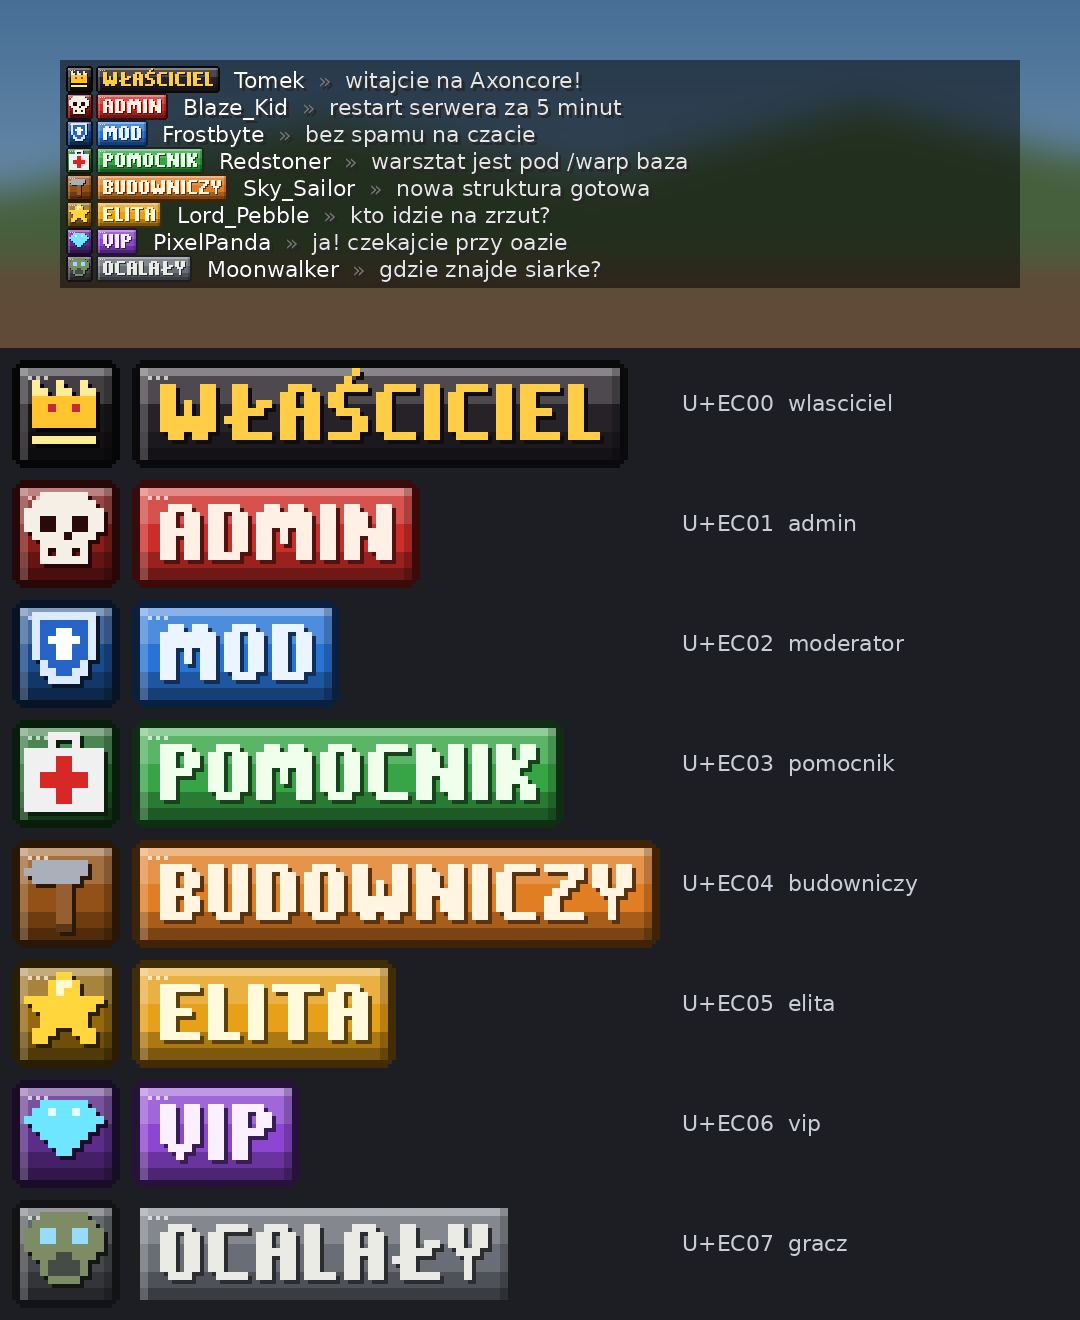
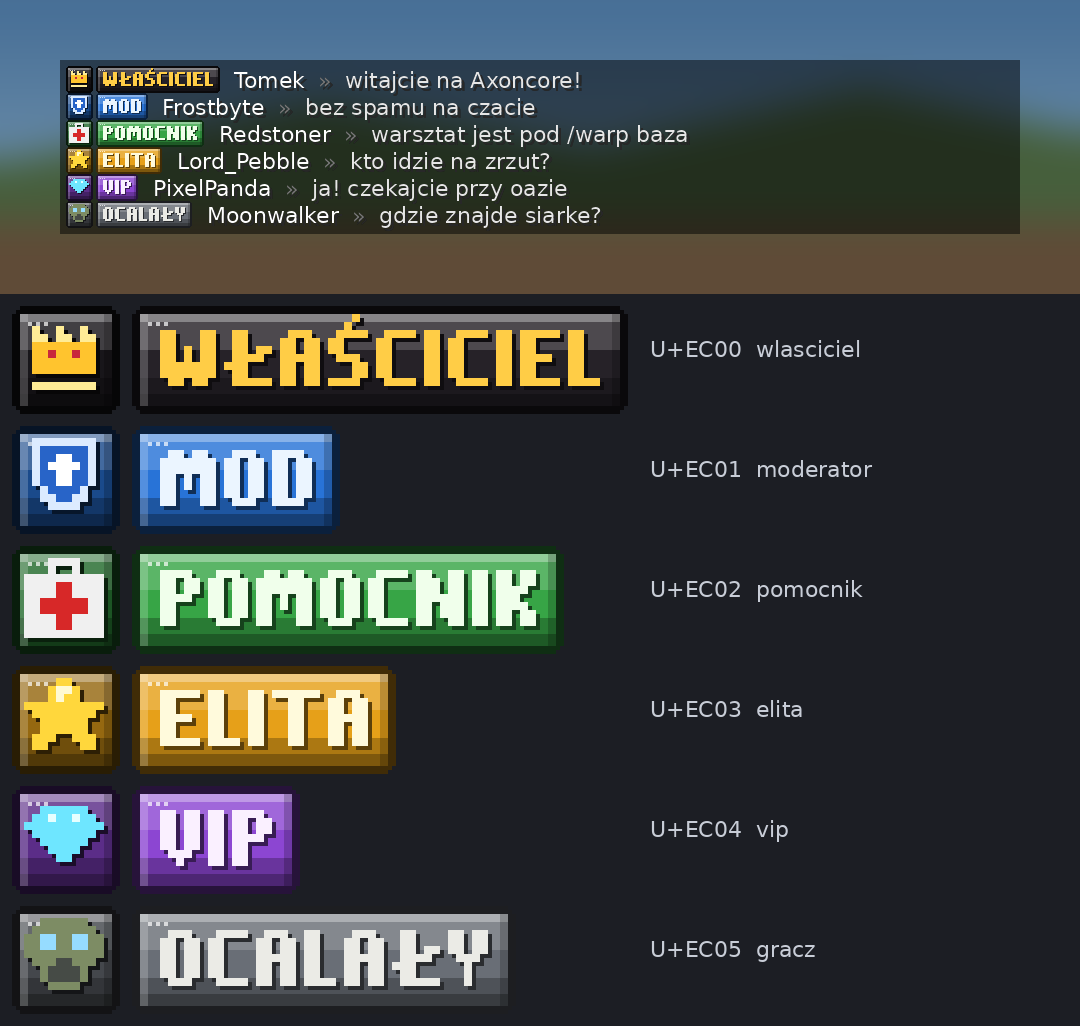
Plakietki: tylko Właściciel, Mod, Pomocnik, Elita, VIP, Ocalały (U+EC00–U+EC05)
Claude-Session: https://claude.ai/code/session_01Ak4evTVzDoAgP8ZK54sxcw

diff --git a/zrodla/axoncore/rangi.py b/zrodla/axoncore/rangi.py
@@ -74,18 +74,6 @@ ICONS = {
         '.33333333.',
         '..........',
     ],
-    'czaszka': [
-        '..111111..',
-        '.11111111.',
-        '1111111111',
-        '1122112211',
-        '1122112211',
-        '.11112111.',
-        '..111111..',
-        '..1.11.1..',
-        '..111111..',
-        '..........',
-    ],
     'tarcza': [
         '.11111111.',
         '.13333331.',
@@ -109,18 +97,6 @@ ICONS = {
         '1111221111',
         '1111221111',
         '1111111111',
-    ],
-    'mlotek': [
-        '..........',
-        '.3333333..',
-        '33333333..',
-        '.333333...',
-        '....11....',
-        '....11....',
-        '....11....',
-        '....11....',
-        '....11....',
-        '....22....',
     ],
     'gwiazda': [
         '....11....',
@@ -166,13 +142,11 @@ ICONS = {
 RANGI = [
     # (klucz,     znak,   napis,        ikona,      tabliczka,  napis-kolor,  ikona 1,   ikona 2,   ikona 3)
     ('wlasciciel', 0xEC00, 'WŁAŚCICIEL', 'korona',  (38, 34, 40), (255, 205, 70), (255, 196, 46), (200, 40, 60), (255, 236, 150)),
-    ('admin',      0xEC01, 'ADMIN',      'czaszka', (205, 45, 40), (255, 240, 230), (245, 240, 230), (40, 10, 10), None),
-    ('moderator',  0xEC02, 'MOD',        'tarcza',  (40, 115, 215), (235, 245, 255), (220, 235, 255), (255, 255, 255), (40, 100, 200)),
-    ('pomocnik',   0xEC03, 'POMOCNIK',   'apteczka', (55, 165, 70), (240, 255, 235), (240, 240, 240), (215, 40, 40), None),
-    ('budowniczy', 0xEC04, 'BUDOWNICZY', 'mlotek',  (225, 125, 35), (255, 245, 225), (150, 95, 50), (90, 55, 25), (170, 175, 185)),
-    ('elita',      0xEC05, 'ELITA',      'gwiazda', (230, 160, 25), (255, 250, 220), (255, 215, 60), (255, 255, 200), (255, 250, 210)),
-    ('vip',        0xEC06, 'VIP',        'diament', (140, 70, 210), (250, 240, 255), (110, 230, 255), (230, 255, 255), None),
-    ('gracz',      0xEC07, 'OCALAŁY',    'maska',    (105, 110, 118), (235, 235, 230), (125, 140, 100), (150, 220, 255), (70, 75, 70)),
+    ('moderator',  0xEC01, 'MOD',        'tarcza',  (40, 115, 215), (235, 245, 255), (220, 235, 255), (255, 255, 255), (40, 100, 200)),
+    ('pomocnik',   0xEC02, 'POMOCNIK',   'apteczka', (55, 165, 70), (240, 255, 235), (240, 240, 240), (215, 40, 40), None),
+    ('elita',      0xEC03, 'ELITA',      'gwiazda', (230, 160, 25), (255, 250, 220), (255, 215, 60), (255, 255, 200), (255, 250, 210)),
+    ('vip',        0xEC04, 'VIP',        'diament', (140, 70, 210), (250, 240, 255), (110, 230, 255), (230, 255, 255), None),
+    ('gracz',      0xEC05, 'OCALAŁY',    'maska',    (105, 110, 118), (235, 235, 230), (125, 140, 100), (150, 220, 255), (70, 75, 70)),
 ]
 
 

diff --git a/zrodla/preview_rangi.py b/zrodla/preview_rangi.py
@@ -12,10 +12,8 @@ S = 3   # skala GUI: 1 px GUI = 3 px ekranu = 1 px obrazka plakietki
 
 CZAT = [
     ('wlasciciel', 'Tomek', 'witajcie na Axoncore!'),
-    ('admin', 'Blaze_Kid', 'restart serwera za 5 minut'),
     ('moderator', 'Frostbyte', 'bez spamu na czacie'),
     ('pomocnik', 'Redstoner', 'warsztat jest pod /warp baza'),
-    ('budowniczy', 'Sky_Sailor', 'nowa struktura gotowa'),
     ('elita', 'Lord_Pebble', 'kto idzie na zrzut?'),
     ('vip', 'PixelPanda', 'ja! czekajcie przy oazie'),
     ('gracz', 'Moonwalker', 'gdzie znajde siarke?'),

diff --git a/README.md b/README.md
@@ -554,12 +554,10 @@ Pikselowe plakietki rang (żeton z ikoną i tabliczka z nazwą) jako znaki czcio
 | Znak | Plik | Napis |
 |---|---|---|
 | U+EC00 | `wlasciciel` | WŁAŚCICIEL |
-| U+EC01 | `admin` | ADMIN |
-| U+EC02 | `moderator` | MOD |
-| U+EC03 | `pomocnik` | POMOCNIK |
-| U+EC04 | `budowniczy` | BUDOWNICZY |
-| U+EC05 | `elita` | ELITA |
-| U+EC06 | `vip` | VIP |
-| U+EC07 | `gracz` | OCALAŁY |
+| U+EC01 | `moderator` | MOD |
+| U+EC02 | `pomocnik` | POMOCNIK |
+| U+EC03 | `elita` | ELITA |
+| U+EC04 | `vip` | VIP |
+| U+EC05 | `gracz` | OCALAŁY |
 
 Zakres U+EC00–U+EC1F jest zarezerwowany na plakietki. Nowa ranga: wpis w `RANGI` (znak, napis, ikona, kolory), ikona 10×10 kropek w `ICONS`. Znaki trafiają do tego samego `default.json` co tablica (`tablica.pliki()`), więc `build_pack.py` i `dodaj_tablice.py` biorą je same. Podgląd: `python3 zrodla/preview_rangi.py` → `podglady/rangi-czat.png`.
